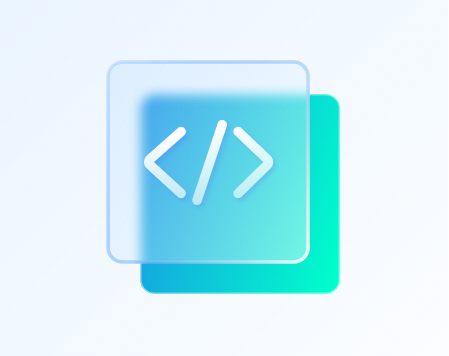
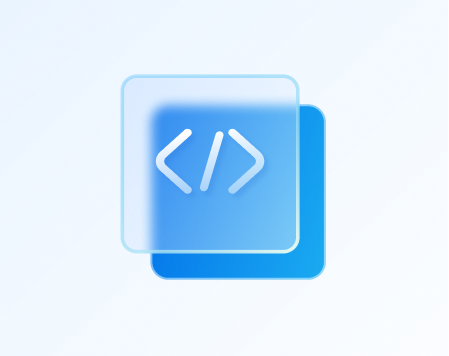
fix: 更新五张商业合作卡片图标，修正 CTA 按钮间距为设计稿 164px

Changed region(s): [[0.2183, 0.1545, 0.7795, 0.8343]]

diff --git a/styles.css b/styles.css
@@ -997,6 +997,12 @@ img { display: block; }
   height: 178px;
 }
 
+/* 首张卡片图标为 220×178，且左对齐 */
+.growth-card:first-child img {
+  left: 0;
+  width: 220px;
+}
+
 .growth-card h3 {
   position: absolute;
   left: 24px;
@@ -1066,7 +1072,7 @@ img { display: block; }
   display: flex;
   justify-content: center;
   gap: 13px;
-  margin-top: 13px;
+  margin-top: 36px;
 }
 
 .cta .btn {
